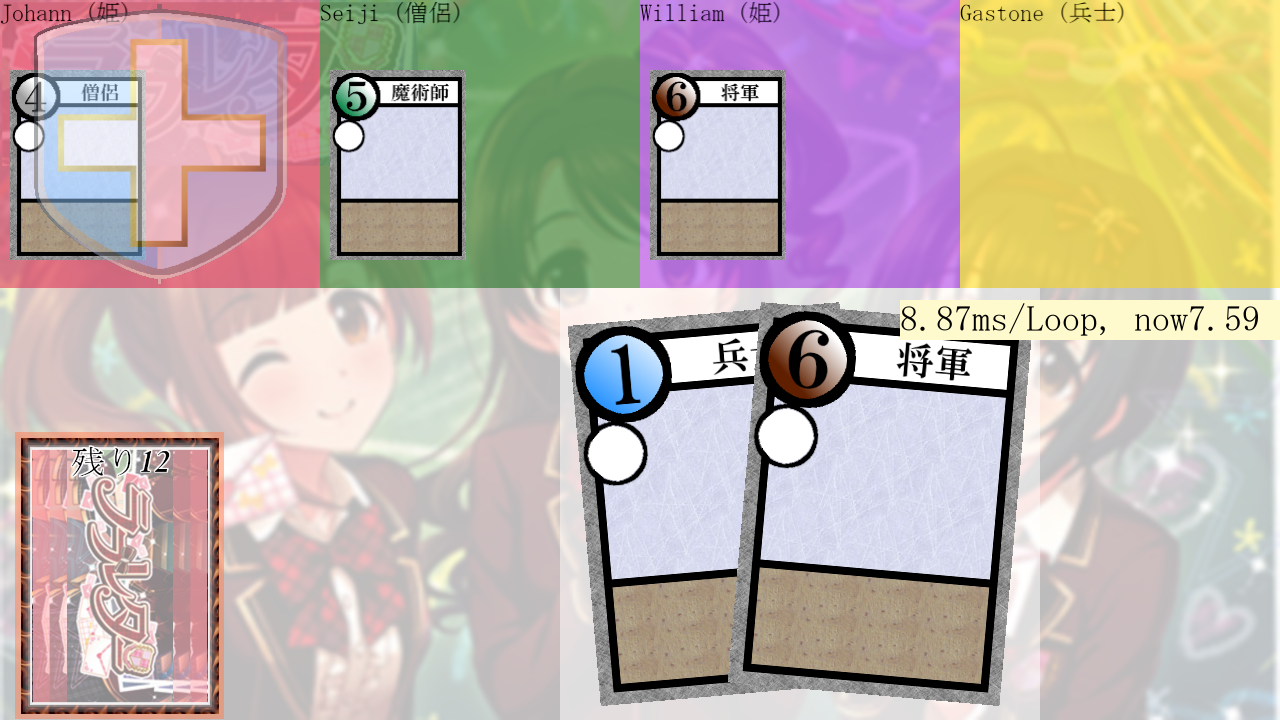
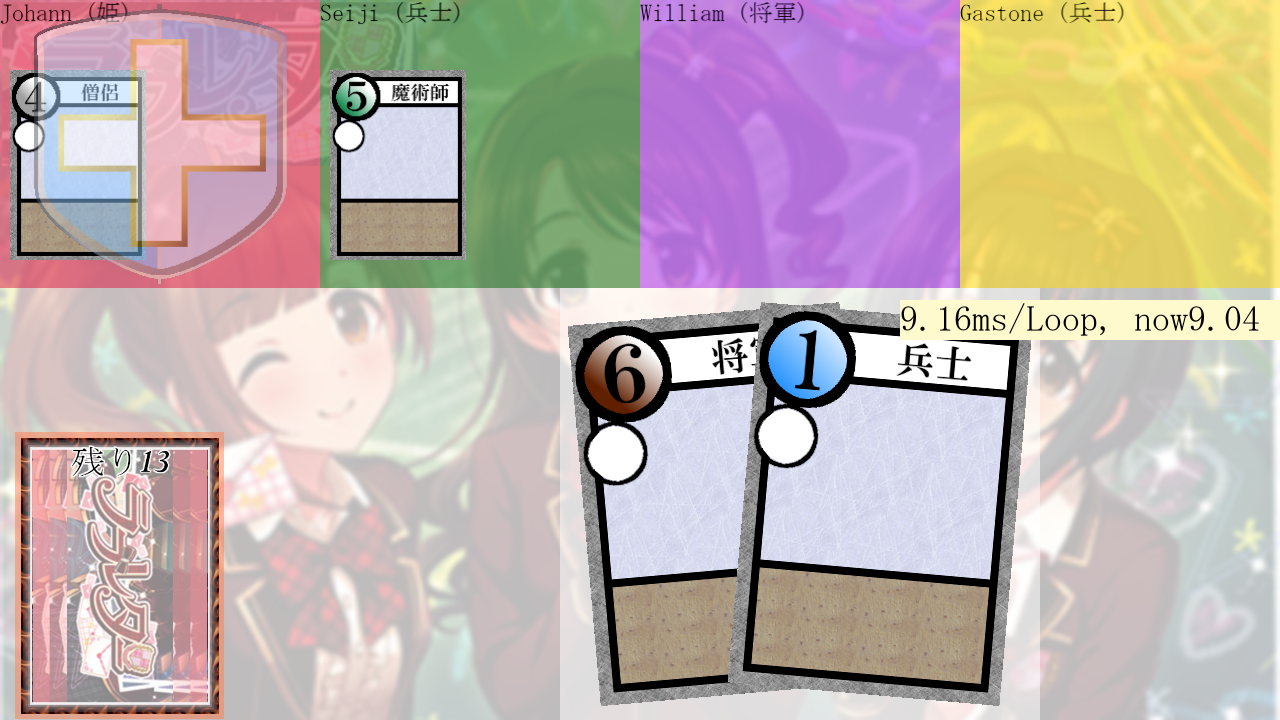
L151:ProtectsControllerをBoard.protect_asyncに引っ掛ける

diff --git a/ll/view/shield_transition.py b/ll/view/shield_transition.py
@@ -1,0 +1,54 @@
+from pygame import Surface, Vector2 as V2, transform
+
+from any.pictures import IMG_SHIELD
+from any.screen import WV2, FRAMES_PER_SECOND
+from any.timer_functions import frames
+from model.ui_element import UIElement
+
+_SECONDS = 0.5
+_WAIT = int(FRAMES_PER_SECOND*_SECONDS)
+
+from ptc.transition import Transition
+class ShieldTransition():
+    def __init__(self, to_v2: V2, canvas: Surface) -> None:
+        self.from_v2 = WV2/2
+        self.to_v2 = to_v2
+        self._drawing_in_progress = True
+        self.frames = frames()
+        self.canvas = canvas
+
+    def rearrange(self) -> None:
+        ...
+
+    def get_hover(self) -> UIElement | None:
+        return None
+
+    def draw(self) -> None:
+        img_rz = self._img_rz()
+        self.canvas.blit(
+            source=img_rz,
+            dest=self.from_v2.lerp(self.to_v2, self._ratio())-V2(img_rz.get_size())/2
+        )
+
+    def elapse(self) -> None:
+        if self._ratio() >= 1:
+            self._complete()
+
+    def in_progress(self) -> bool:
+        return self._drawing_in_progress
+    
+    def _img_rz(self) -> Surface:
+        IMG_SHIELD.set_alpha(int(64+191*self._ratio()))
+        img = transform.rotozoom(
+            surface=IMG_SHIELD,
+            angle=0.0,
+            scale=2.0-self._ratio()
+        )
+        IMG_SHIELD.set_alpha(255)
+        return img
+
+    def _ratio(self) -> float:
+        return (frames()-self.frames)/_WAIT
+
+    def _complete(self) -> None:
+        self._drawing_in_progress = False

diff --git a/ll/seed/default_gm.py b/ll/seed/default_gm.py
@@ -5,6 +5,7 @@ from ctrl.draw_kards import DrawKardsController
 from ctrl.diskard_himes import DiskardHimesController
 from ctrl.exchange_kards import ExchangeKardsController
 from ctrl.guards import GuardsController
+from ctrl.protects import ProtectsController
 from ctrl.turn_starts import TurnStartsController
 from ctrl.setups import SetupsController
 from model.board import Board
@@ -23,29 +24,32 @@ def _make_board() -> Board:
 board = _make_board()
 gm = GameMaster(board=board)
 
-board.guard_async = GuardsController(
-    bridge=gm
-).action
-board.defeat_by_daizin_async = DefeatsByMinistersController(
-    bridge=gm
-).action
-board.diskard_hime_async = DiskardHimesController(
-    bridge=gm
-).action
-board.use_kard_async = BrightKardsController(
+view = BoardView(subject=OBSERVER, bridge=gm)
+gm.view = view
+
+board.draw_kard_async = DrawKardsController(
     bridge=gm
 ).action
 board.turn_start_async = TurnStartsController(
     bridge=gm
 ).action
+board.use_kard_async = BrightKardsController(
+    bridge=gm
+).action
+board.diskard_hime_async = DiskardHimesController(
+    bridge=gm
+).action
 
-view = BoardView(subject=OBSERVER, bridge=gm)
-gm.view = view
-
+board.protect_async = ProtectsController(
+    bridge=gm
+).action
+board.guard_async = GuardsController(
+    bridge=gm
+).action
 board.exchange_kards_async = ExchangeKardsController(
     bridge=gm
 ).action
-board.draw_kard_async = DrawKardsController(
+board.defeat_by_daizin_async = DefeatsByMinistersController(
     bridge=gm
 ).action
 

diff --git a/ll/ctrl/protects.py b/ll/ctrl/protects.py
@@ -1,22 +1,17 @@
-from pygame import Vector2 as V2
-
 from any.func import enforce
 from any.screen import screen
 from model.player import Player
 from ptc.bridge import Bridge
 from view.board_view import BoardView
-from view.linear_transition import LinearTransition
 from view.moves_view import MovesView
 from view.player_square import PlayerSquare
+from view.shield_transition import ShieldTransition
 
 from ptc.controller import Controller
-class DrawKardsController():
+class ProtectsController():
     def __init__(self, bridge: Bridge,) -> None:
         self.bridge = bridge
         self.board_view = enforce(bridge.view, BoardView)
-        dq = self.board_view.deck_square
-        self.img_back = dq.img_back
-        self.from_v2 = V2(dq.rect.center)
 
     def action(self, player: Player) -> None:
         to_v2 = PlayerSquare.search_v2_by_player(
@@ -25,9 +20,7 @@ class DrawKardsController():
         )
         self.bridge.whileloop(new_view=MovesView(
             view=self.bridge.view,
-            transitions=[LinearTransition(
-                img_actor=self.img_back,
-                from_v2=self.from_v2,
+            transitions=[ShieldTransition(
                 to_v2=to_v2,
                 canvas=screen
             )]

diff --git a/ll/model/board.py b/ll/model/board.py
@@ -15,6 +15,7 @@ class Board:
     use_kard_async: Callable[[Player, Kard], None] = lambda p, k: None
     defeat_by_daizin_async: Callable[[Player], None] = lambda p: None
     diskard_hime_async: Callable[[Player], None] = lambda p: None
+    protect_async: Callable[[Player], None] = lambda p: None
     guard_async: Callable[[Kard], None] = lambda k: None
     exchange_kards_async: Callable[[Player, Player], None] = lambda p1, p2: None
     rummage_async: Callable[[Player], None] = lambda p: None
@@ -69,6 +70,7 @@ class Board:
         raise ValueError("生存者がいません", self)
     
     def protect(self, player: Player) -> None:
+        self.protect_async(player)
         player.protected = True
 
     def rummage(self, player: Player) -> None:
